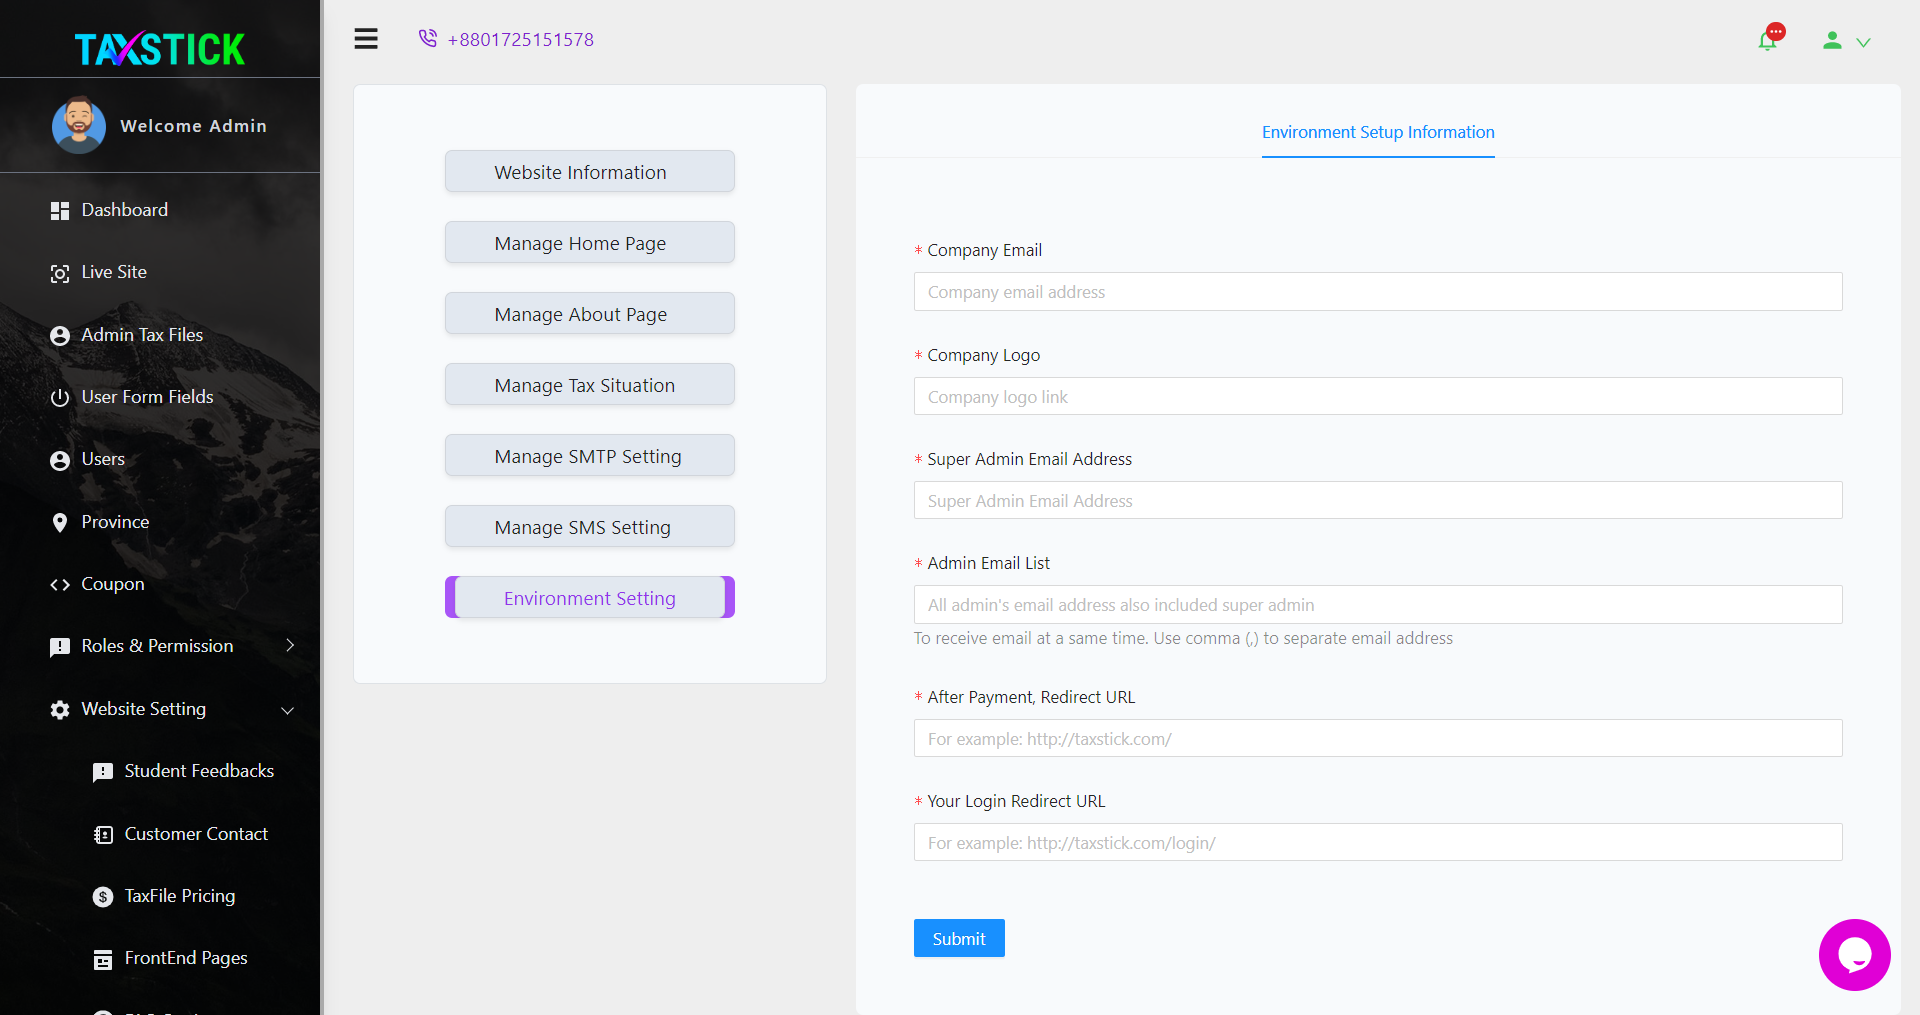
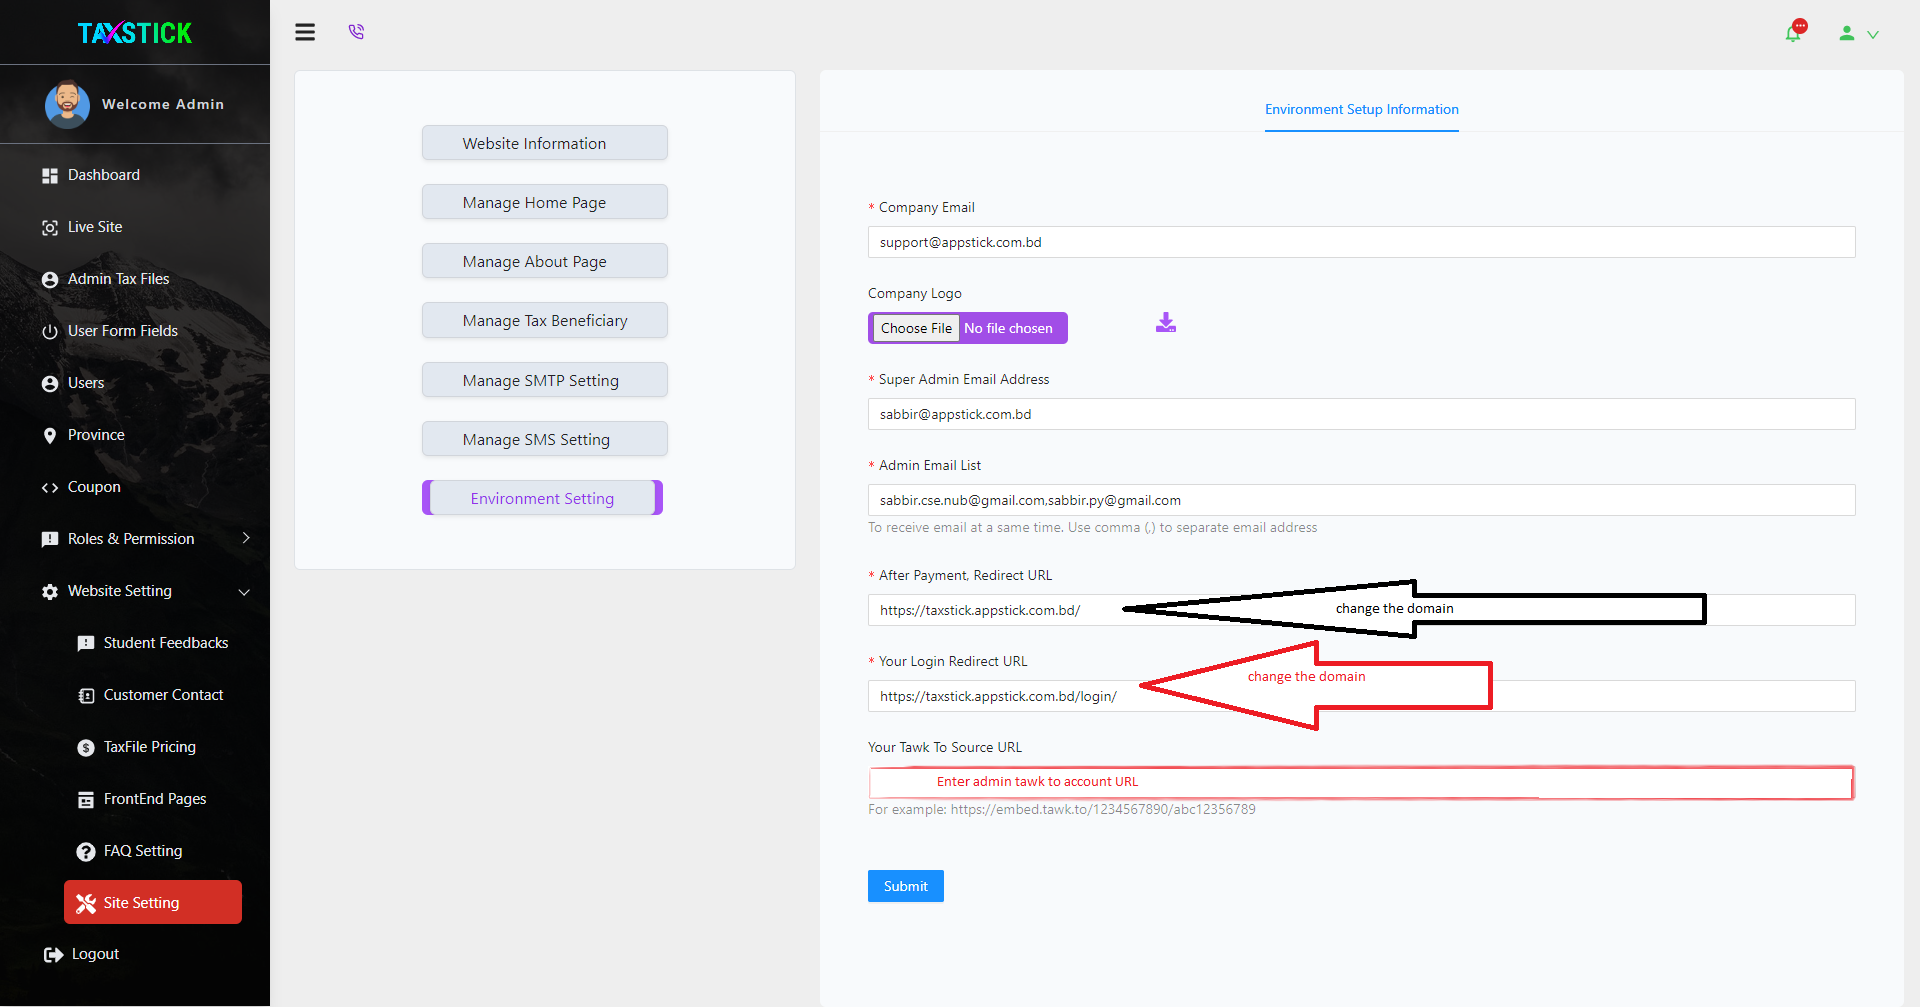
tawk to added

diff --git a/pages/admin/setting/beneficiaryPage.js b/pages/admin/setting/beneficiaryPage.js
@@ -5,16 +5,43 @@ import AdminLayout from '../../../layout/adminLayout';
 const BeneficiaryPage = () => {
     return (
         <AdminLayout>
-            <div className='bg-gray-50 h-auto m-6 w-[90%] text-[16px]'>
+            <div className='bg-gray-50 h-auto m-6 w-[90%] text-[16px] p-4'>
                 <div className='flex gap-2'>
-                    <Link href='/admin/landingPage/'><a>Website Setting</a></Link> / <p>About Page</p>
+                    <Link href='/admin/landingPage/'><a>Website Setting</a></Link> / <p>Tax Beneficiary</p>
                 </div>
-                <h4 className='text-center'>Website live page information</h4>
-                <div className='my-4'>
-                    <h5 className='border-b-[1px] border-black capitalize'>Website tax situation page information</h5>
-                    <div className='m-4'>
-                        <p>This form takes the all user role information, This information will be display on the tax situation page in the live website</p>
-                        <img className='h-auto w-auto' src="/images/situation.png" alt="" />
+                <h5 className='border-b-[1px] border-black capitalize'>Website tax beneficiary page information</h5>
+                <div className='m-4'>
+                    <p>On this page, it takes specific user role-based information, this information will be displayed on the tax beneficiary page on the live website.</p>
+                    <img className='h-auto w-auto' src="/images/situation.png" alt="" />
+                </div>
+                <div className='m-4'>
+                    <p>You must first select the role name to add or update user role-based information. After this, you can add information. Here you can see only the roles that you have previously defined.</p>
+                    <img className='h-auto w-auto' src="/images/bene.png" alt="" />
+                </div>
+                <div className='m-4'>
+                    <p className='mb-0'>Short Description of the form:</p>
+                    <ul className='list-disc'>
+                        <li>Hero section tittle: You must give a role specification title</li>
+                        <li>Hero section sub-tittle: You must give some text in an introduction specification</li>
+                        <li>Hero section image: You must give a photo for this section</li>
+                        <li>Section 1 and Section 2 work process is almost same.
+                            <ul className='list-disc'>
+                                <li>Each of these two sections will require one heading tittle</li>
+                                <li>Each of these two categories will require descriptive information</li>
+                                <li>Each of these two sections will require two photos to make it attractive</li>
+                            </ul>
+                        </li>
+                        <li>Work Process Section(Title): Each role has a descriptive section of how the user works, which requires a title.</li>
+                        <li>Work Process section(Add Description):Details of how the user works for each role can be added here.
+                            <div className='grid grid-cols-2'>
+                                <img className='h-auto w-auto' src="/images/des1.png" alt="" />
+                                <img className='h-auto w-auto' src="/images/des2.png" alt="" />
+                            </div>
+                        </li>
+                    </ul>
+                    <div className='flex justify-around items-center border-2 border-red-500 m-4 rounded'>
+                        <p className='text-[34px]'>Here you can see the changes</p>
+                        <img className='h-auto w-auto' src="/images/des3.png" alt="" />
                     </div>
                 </div>
             </div>

diff --git a/pages/tawkTo/index.js b/pages/tawkTo/index.js
@@ -1,10 +1,39 @@
+import Link from 'next/link';
 import React from 'react';
 import AdminLayout from '../../layout/adminLayout';
 
 const TawkTo = () => {
     return (
         <AdminLayout>
-            
+            <div className='bg-gray-50 h-auto m-6 w-[90%] text-[16px] p-4'>
+                <div className=''>
+                    <h5 className='border-b-[1px] border-black'>Tawt to</h5>
+                    <p>Throughout this website, you can see this type of sign in the lower right corner. It is named <span className='font-bold text-red-500'>tawk. to</span> . We used this system to manage chatting or messages.</p>
+                    <img className='h-[200px] w-auto mx-auto' src="/images/tawk.png" alt="" />
+                    <div className='m-4'>
+                        <p>After clicking on the icon, a user or visitor can access such chatting platform. They can directly message you for any queries. In these two images, you can see the status after clicking the icon and the time during live chatting.</p>
+                        <div className='grid grid-cols-2'>
+                            <img className='h-auto w-auto mx-auto' src="/images/tawk2.png" alt="" />
+                            <img className='h-auto w-auto mx-auto' src="/images/tawk3.png" alt="" />
+                        </div>
+                        <p className='text-center text-red-500 m-2'>*Note that the user does not need to open an account there for live chat</p>
+                    </div>
+                    <div className='m-4'>
+                        <p>If the admin uses this chatting system, he must have an account in. Account Opening process: <span className='font-bold text-red-500'>tawk. to</span></p>
+                        <ul className='list-disc'>
+                            <li>Here is the free sign link: <Link href={`https://dashboard.tawk.to/signup `}><a className='cursor-pointer text-red-500 font-bold'> tawk. to</a></Link></li>
+                            <li>After completing the sign up you can go to the dashboard.</li>
+                            <li>Then follow the picture instruction,
+                                <img className='h-auto w-auto mx-auto' src="/images/tawk4.png" alt="" />
+                            </li>
+                            <li className='my-4'>Then copy the link and paste it in the admin panel,<span className='text-red-500'>Your Tawk To Source URL</span> feild.
+                                <img className='h-auto w-auto mx-auto' src="/images/env.png" alt="" />
+                            </li>
+                            <li>Now the admin is able to establish his website live chatting platform, which is fully ready for use. Admin can download tawk.to mobile app also.</li>
+                        </ul>
+                    </div>
+                </div>
+            </div>
         </AdminLayout>
     );
 };

diff --git a/pages/admin/rolePermission/index.js b/pages/admin/rolePermission/index.js
@@ -4,10 +4,10 @@ import AdminLayout from '../../../layout/adminLayout';
 const RolePermission = () => {
     return (
         <AdminLayout>
-            <div className='bg-gray-50 h-auto m-6 w-[90%] text-[16px]'>
-                <div className='my-4'>
+            <div className='bg-gray-50 h-auto m-6 w-[90%] text-[16px] p-4'>
+                <div className=''>
                     <h5 className='border-b-[1px] border-black'>Display Role Information</h5>
-                    <p>On this page, the admin role display table. The action column of the table has role update button</p>
+                    <p>On this page, the admin can see the list of all the roles he has added. He can also see how many users are under a role. The Action column of the table has an Update button through which the role information can be changed.</p>
                     <img className='h-auto w-auto' src="/images/role.png" alt="" />
                 </div>
                 <div className='my-4'>
@@ -17,17 +17,17 @@ const RolePermission = () => {
                 </div>
                 <div className='my-4'>
                     <h5 className='border-b-[1px] border-black'>Role Permission Page</h5>
-                    <p>On this page, the admin can view a specific role information , he also update imformation.</p>
+                    <p>On this page,Admin can manage the access permission of his entire website panel.</p>
                     <img className='h-auto w-auto' src="/images/permit.png" alt="" />
                 </div>
                 <div className='my-4'>
                     <h5 className='border-b-[1px] border-black'>Single Role Added Page</h5>
-                    <p>On this page, the admin can add unlimited user roles for his website. he can see all the user roles at the bottom of the page. If he wants, he can update and delete the user role</p>
+                    <p>On this page, admin can add unlimited user roles for his website. He can see all user roles in list form at the bottom of the page. He can update and delete user roles if he wants.</p>
                     <img className='h-auto w-auto' src="/images/roleAdd.png" alt="" />
                 </div>
                 <div className='my-4'>
                     <h5 className='border-b-[1px] border-black'>Updated Single Role Page</h5>
-                    <p>On the drawer, Admin can see user role information</p>
+                    <p>In drawer, admin can view user role information and update information</p>
                     <img className='h-auto w-auto' src="/images/upRole.png" alt="" />
                 </div>
             </div>

diff --git a/pages/admin/setting/envPage.js b/pages/admin/setting/envPage.js
@@ -1,20 +1,28 @@
+import Link from 'next/link';
 import React from 'react';
 import AdminLayout from '../../../layout/adminLayout';
 
 const ENVPage = () => {
     return (
         <AdminLayout>
-            <div className='bg-gray-50 h-auto m-6 w-[90%] text-[16px]'>
-                <h4 className='text-center'>Website live page information</h4>
-            
-                <div className='my-4'>
-                    <h5 className='border-b-[1px] border-black'>Website Environment Set Up </h5>
-                    <div className='m-4'>
-                        <p>This form takes the main environment set up information, This information stored in the .env file</p>
-                        <img className='h-auto w-auto' src="/images/env.png" alt="" />
-                    </div>
+            <div className='bg-gray-50 h-auto m-6 w-[90%] text-[16px] p-4'>
+                <div className='flex gap-2'>
+                    <Link href='/admin/landingPage/'><a>Website Setting</a></Link> / <p>Environment Set Up</p>
                 </div>
-           
+                <h5 className='border-b-[1px] border-black'>Website Environment Set Up </h5>
+                <div className='m-4'>
+                    <p>This form takes the main environment set up information, This information stored in the .env file</p>
+                    <ul className='list-disc'>
+                        <li>Company Email: Enter your company email.</li>
+                        <li>Company Logo: Upload your company logo.</li>
+                        <li>Super Admin Email Address: Enter your super admin email.</li>
+                        <li>Admin Email List:If you want to add additional admins, enter their email here.</li>
+                        <li>After Payment, Redirect URL:Enter your domain name here.</li>
+                        <li>Your Login Redirect URL:Enter your domain name here.</li>
+                        <li>Your Tawk To Source URL:For chatting, we use Tawt to the app, please provide your Tawt to the account URL.</li>
+                    </ul>
+                    <img className='h-auto w-auto' src="/images/env.png" alt="" />
+                </div>
             </div>
         </AdminLayout>
     );

diff --git a/pages/admin/setting/smtpPage.js b/pages/admin/setting/smtpPage.js
@@ -1,20 +1,30 @@
+import Link from 'next/link';
 import React from 'react';
 import AdminLayout from '../../../layout/adminLayout';
 
 const SMTPPage = () => {
     return (
         <AdminLayout>
-            <div className='bg-gray-50 h-auto m-6 w-[90%] text-[16px]'>
-                <h4 className='text-center'>Website live page information</h4>  
-                <div className='my-4'>
-                    <h5 className='border-b-[1px] border-black'>Website SMTP Information</h5>
-                    <div className='m-4'>
-                        <p>This form takes the Simple Mail Transfer Protocol (SMTP) information.</p>
-                        <img className='h-auto w-auto' src="/images/smtp.png" alt="" />
-                    </div>
+            <div className='bg-gray-50 h-auto m-6 w-[90%] text-[16px] p-4'>
+                <div className='flex gap-2'>
+                    <Link href='/admin/landingPage/'><a>Website Setting</a></Link> / <p>SMTP Information</p>
+                </div>
+                <h5 className='border-b-[1px] border-black capitalize'>Website SMTP Information</h5>
+                <div className='m-4'>
+                    <p>This form takes the Simple Mail Transfer Protocol (SMTP) information.These section helps you to send email to your any users,</p>
+                    <p>Genaral section : Need 3 bacis informations.</p>
+                    <img className='h-auto w-auto' src="/images/smtp.png" alt="" />
+                </div>
+                <div className='m-4'>
+                    <p><span className='font-bold text-red-500 text-[18px]'>Email Option 2:</span> This option is enabled by default.</p>
+                    <img className='h-auto w-auto' src="/images/email2.png" alt="" />
+                </div>
+                <div className='m-4'>
+                    <p>Email Option 1:If you want to activate the SendGrid email service, please contact support.</p>
+                    <img className='h-auto w-auto' src="/images/email1.png" alt="" />
                 </div>
             </div>
-        </AdminLayout>
+        </AdminLayout >
     );
 };
 

diff --git a/pages/admin/setting/morePage.js b/pages/admin/setting/morePage.js
@@ -11,11 +11,15 @@ const MorePage = () => {
                 </div>
                     <h5 className='border-b-[1px] border-black'>More Pages</h5>
                     <div className='m-4'>
-                        <p>On this page you can add an additional page for your website, where you can specify the menu or footer to display. You can also delete and update data
+                        <p>On this page, you can add an additional page for your website, where you can specify the menu or footer to display. You can delete and update data .
                         </p>
                         <img className='h-auto w-auto' src="/images/more.png" alt="" />
                         <p className='mt-4'>Admin can write any type of content through this draft board</p>
                         <img className='h-auto w-auto' src="/images/draft.png" alt="" />
+                        <p className='mt-4'>When the admin can add a menu page, this page is stored in the navbar <span className='italic text-red-500'>More</span> section</p>
+                        <img className='h-auto w-auto' src="/images/more2.png" alt="" />
+                        <p className='mt-4'>When the admin adds a footer page, this page is stored in the footer <span className='italic text-red-500'> Service Links </span>  section</p>
+                        <img className='h-auto w-auto' src="/images/more1.png" alt="" />
                         
                     </div>
             </div>

diff --git a/pages/admin/setting/smsPage.js b/pages/admin/setting/smsPage.js
@@ -1,20 +1,21 @@
+import Link from 'next/link';
 import React from 'react';
 import AdminLayout from '../../../layout/adminLayout';
 
 const SMSPage = () => {
     return (
         <AdminLayout>
-            <div className='bg-gray-50 h-auto m-6 w-[90%] text-[16px]'>
-                <h4 className='text-center'>Website live page information</h4>
-                <div className='my-4'>
-                    <h5 className='border-b-[1px] border-black'>Website SMS Information</h5>
-                    <div className='m-4'>
-                        <p>This form takes the twilo sms information.</p>
-                        <img className='h-auto w-auto' src="/images/sms.png" alt="" />
-                    </div>
+            <div className='bg-gray-50 h-auto m-6 w-[90%] text-[16px] p-4'>
+                <div className='flex gap-2'>
+                    <Link href='/admin/landingPage/'><a>Website Setting</a></Link> / <p>SMS Information</p>
+                </div>
+                <h5 className='border-b-[1px] border-black'>Website SMS Information</h5>
+                <div className='m-4'>
+                    <p>This form takes the twilo sms information.</p>
+                    <img className='h-auto w-auto' src="/images/sms.png" alt="" />
                 </div>
             </div>
-        </AdminLayout>
+        </AdminLayout >
     );
 };
 

diff --git a/pages/help/index.js b/pages/help/index.js
@@ -18,7 +18,7 @@ const HelpPage = () => {
                     <p className=' cursor-pointer text-[18px] p-3 w-[40%] bg-blue-500 rounded-lg'><Link href={`https://www.facebook.com/appstick.com.bd`}><a className='flex items-center gap-2 text-white'><span><BsFacebook size={35} /></span> Chat on Facebook</a></Link></p>
                     <p className=' cursor-pointer text-[18px] p-3 w-[40%] bg-[#FF0000] rounded-lg'><Link href={`https://www.youtube.com/channel/UC3FOvh2oLyTOb3jTjJafBFw`}><a className='flex items-center gap-2 text-white'><span><BsYoutube size={35} /></span> Our Youtube Channel</a></Link></p>
                 </div>
-                <div className='bg-[#f3f6fe] flex items-center drop-shadow-lg'>
+                <div className='bg-[#f3f6fe] flex items-center drop-shadow-lg h-[600px] w-full'>
                     <img className='scene rounded drop-shadow-lg' src="/images/appstick.jpg" alt="" />
                 </div>
             </div>

diff --git a/pages/admin/landingPage/index.js b/pages/admin/landingPage/index.js
@@ -25,7 +25,7 @@ const LandingPage = () => {
                         </p>
                         <p className='flex items-center gap-2'>
                             <span><IoMdSend /></span>
-                            <Link href='/admin/setting/morePage/'><a  className='border px-4 py-2 rounded text-violet-500   font-bold'>FrontEnd Pages</a></Link>
+                            <Link href='/admin/setting/morePage/'><a  className='border px-4 py-2 rounded text-violet-500   font-bold'>Frontend More Pages</a></Link>
                         </p>
                         <p className='flex items-center gap-2'>
                             <span><IoMdSend /></span>
